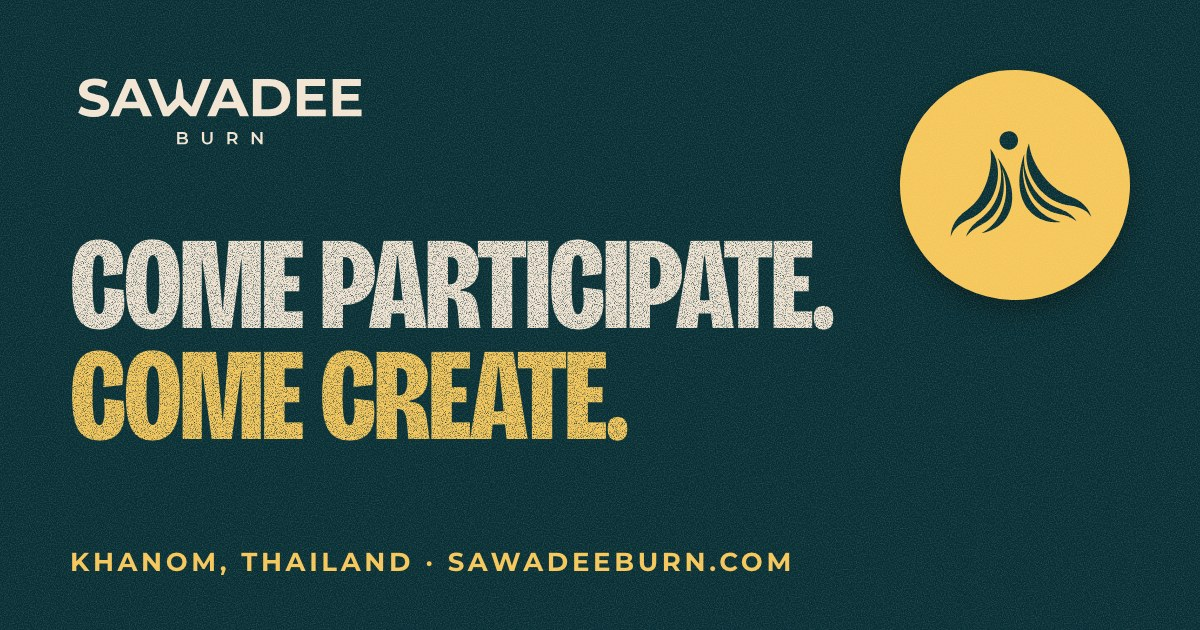
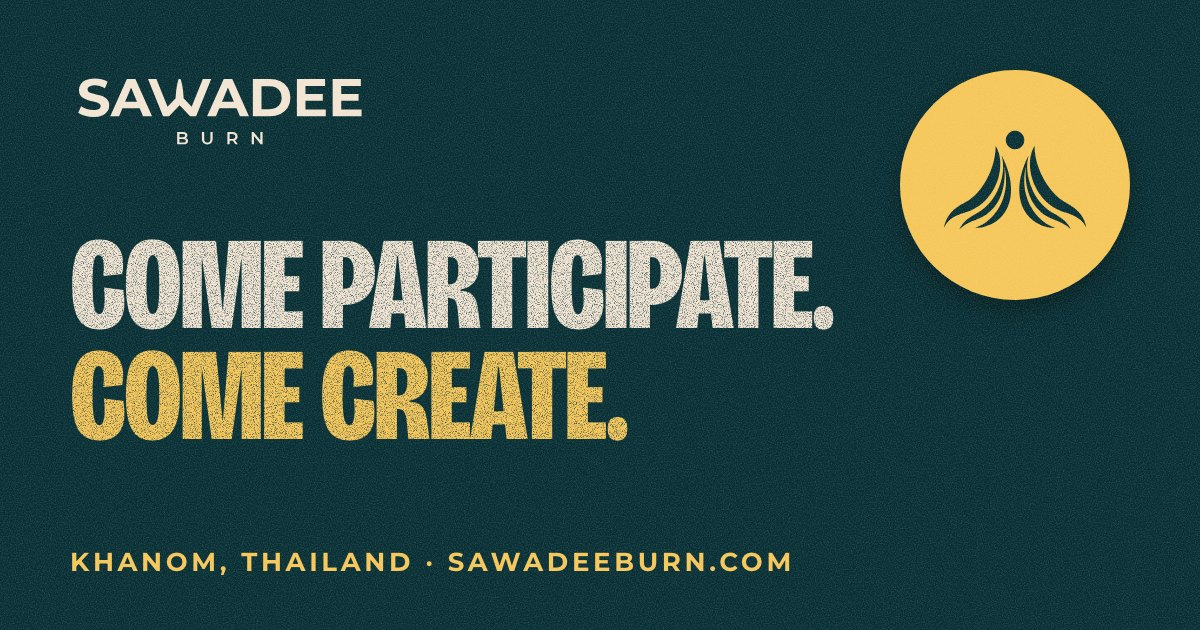
Artem's notes: title 'We build it together.', symbol stamp upright so the palms sit level, link preview image with the upright symbol

Changed region(s): [[0.7708, 0.2111, 0.925, 0.3921]]

diff --git a/public/index.html b/public/index.html
@@ -8,7 +8,7 @@
 <meta name="description" content="A community-created, non-profit burn by the sea. 2-7 March 2027, Khanom, Thailand. Come participate. Come create.">
 <meta property="og:title" content="SaWadee Burn · 2-7 March 2027 · Khanom, Thailand">
 <meta property="og:description" content="A community-created, non-profit burn by the sea. Come participate. Come create.">
-<meta property="og:image" content="https://sawadee-burn-site.pages.dev/assets/img/share.jpg?v=v3">
+<meta property="og:image" content="https://sawadee-burn-site.pages.dev/assets/img/share.jpg?v=v3b">
 <meta property="og:image:width" content="1200">
 <meta property="og:image:height" content="630">
 <meta property="og:image:alt" content="SaWadee Burn: Come participate. Come create. Khanom, Thailand.">
@@ -21,7 +21,7 @@
 <link rel="icon" href="favicon.svg" type="image/svg+xml">
 <link rel="preload" href="assets/fonts/bricolage.woff2" as="font" type="font/woff2" crossorigin>
 <link rel="preload" href="assets/fonts/montserrat.woff2" as="font" type="font/woff2" crossorigin>
-<link rel="stylesheet" href="assets/site.css?v=1795768540">
+<link rel="stylesheet" href="assets/site.css?v=1795769750">
 <script>(function(){try{var t=localStorage.getItem('sb-theme');if(t)document.documentElement.dataset.theme=t}catch(e){}document.documentElement.classList.add('js')})()</script>
 </head>
 <body>
@@ -78,7 +78,7 @@
 <!-- ============ WHAT A BURN IS ============ -->
 <section class="burn f-paper" id="burn" aria-labelledby="h-burn">
   <div class="wrap">
-    <h2 class="big" id="h-burn"><span class="fit" data-w=".5">Built by</span><span class="fit ink-tang" data-w=".86">everyone who comes.</span></h2>
+    <h2 class="big" id="h-burn"><span class="fit" data-w=".7">We build it</span><span class="fit ink-tang" data-w=".62">together.</span></h2>
     <div class="burn-grid">
       <div class="player">
         <video id="teaser" playsinline muted loop preload="none" poster="assets/video/film-poster.webp?v=naf2" width="720" height="900" aria-label="33 second type film: No lineup. No headliners. No VIP. Not a festival. We build it together, we make music, we play, we share, then we burn it together and leave no trace.">
@@ -90,7 +90,7 @@
         </div>
       </div>
       <div class="burn-copy">
-      <p class="lede">Six days of art, camps and music by the sea. Everyone who comes takes part.</p>
+      <p class="lede">Six days of art, camps and music by the sea, made by the community.</p>
       <ul class="claims">
         <li><b class="big">You make the program.</b><span>Art, camps and music come from the participants.</span></li>
         <li><b class="big">We share.</b><span>Nobody sells anything here, and there are no sponsors.</span></li>
@@ -264,6 +264,6 @@
 
 <script src="assets/motion/assets.js" defer></script>
 <script src="assets/motion/sawadee-motion.js" defer></script>
-<script src="assets/site.js?v=1795768540" defer></script>
+<script src="assets/site.js?v=1795769750" defer></script>
 </body>
 </html>

diff --git a/src/index.html b/src/index.html
@@ -8,7 +8,7 @@
 <meta name="description" content="A community-created, non-profit burn by the sea. 2-7 March 2027, Khanom, Thailand. Come participate. Come create.">
 <meta property="og:title" content="SaWadee Burn · 2-7 March 2027 · Khanom, Thailand">
 <meta property="og:description" content="A community-created, non-profit burn by the sea. Come participate. Come create.">
-<meta property="og:image" content="{{SITE}}/assets/img/share.jpg?v=v3">
+<meta property="og:image" content="{{SITE}}/assets/img/share.jpg?v=v3b">
 <meta property="og:image:width" content="1200">
 <meta property="og:image:height" content="630">
 <meta property="og:image:alt" content="SaWadee Burn: Come participate. Come create. Khanom, Thailand.">
@@ -78,7 +78,7 @@
 <!-- ============ WHAT A BURN IS ============ -->
 <section class="burn f-paper" id="burn" aria-labelledby="h-burn">
   <div class="wrap">
-    <h2 class="big" id="h-burn"><span class="fit" data-w=".5">Built by</span><span class="fit ink-tang" data-w=".86">everyone who comes.</span></h2>
+    <h2 class="big" id="h-burn"><span class="fit" data-w=".7">We build it</span><span class="fit ink-tang" data-w=".62">together.</span></h2>
     <div class="burn-grid">
       <div class="player">
         <video id="teaser" playsinline muted loop preload="none" poster="assets/video/film-poster.webp?v=naf2" width="720" height="900" aria-label="33 second type film: No lineup. No headliners. No VIP. Not a festival. We build it together, we make music, we play, we share, then we burn it together and leave no trace.">
@@ -90,7 +90,7 @@
         </div>
       </div>
       <div class="burn-copy">
-      <p class="lede">Six days of art, camps and music by the sea. Everyone who comes takes part.</p>
+      <p class="lede">Six days of art, camps and music by the sea, made by the community.</p>
       <ul class="claims">
         <li><b class="big">You make the program.</b><span>Art, camps and music come from the participants.</span></li>
         <li><b class="big">We share.</b><span>Nobody sells anything here, and there are no sponsors.</span></li>

diff --git a/public/crews/index.html b/public/crews/index.html
@@ -8,7 +8,7 @@
 <meta name="description" content="Start a crew, get your own link, light lamps on the board. Points don't matter. A community-created, non-profit burn by the sea. 2-7 March 2027, Khanom, Thailand. Come participate. Come create.">
 <meta property="og:title" content="SaWadee Burn · 2-7 March 2027 · Khanom, Thailand">
 <meta property="og:description" content="A community-created, non-profit burn by the sea. Come participate. Come create.">
-<meta property="og:image" content="https://sawadee-burn-site.pages.dev/assets/img/share.jpg?v=v3">
+<meta property="og:image" content="https://sawadee-burn-site.pages.dev/assets/img/share.jpg?v=v3b">
 <meta property="og:image:width" content="1200">
 <meta property="og:image:height" content="630">
 <meta property="og:image:alt" content="SaWadee Burn: Come participate. Come create. Khanom, Thailand.">
@@ -21,7 +21,7 @@
 <link rel="icon" href="/favicon.svg" type="image/svg+xml">
 <link rel="preload" href="/assets/fonts/bricolage.woff2" as="font" type="font/woff2" crossorigin>
 <link rel="preload" href="/assets/fonts/montserrat.woff2" as="font" type="font/woff2" crossorigin>
-<link rel="stylesheet" href="/assets/site.css?v=1795768540">
+<link rel="stylesheet" href="/assets/site.css?v=1795769750">
 <script>(function(){try{var t=localStorage.getItem('sb-theme');if(t)document.documentElement.dataset.theme=t}catch(e){}document.documentElement.classList.add('js')})()</script>
 </head>
 <body>
@@ -113,7 +113,7 @@
 
 <script src="/assets/motion/assets.js" defer></script>
 <script src="/assets/motion/sawadee-motion.js" defer></script>
-<script src="/assets/site.js?v=1795768540" defer></script>
-<script src="/assets/crews.js?v=1795768540" defer></script>
+<script src="/assets/site.js?v=1795769750" defer></script>
+<script src="/assets/crews.js?v=1795769750" defer></script>
 </body>
 </html>

diff --git a/public/404.html b/public/404.html
@@ -8,7 +8,7 @@
 <meta name="description" content="A community-created, non-profit burn by the sea. 2-7 March 2027, Khanom, Thailand. Come participate. Come create.">
 <meta property="og:title" content="SaWadee Burn · 2-7 March 2027 · Khanom, Thailand">
 <meta property="og:description" content="A community-created, non-profit burn by the sea. Come participate. Come create.">
-<meta property="og:image" content="https://sawadee-burn-site.pages.dev/assets/img/share.jpg?v=v3">
+<meta property="og:image" content="https://sawadee-burn-site.pages.dev/assets/img/share.jpg?v=v3b">
 <meta property="og:image:width" content="1200">
 <meta property="og:image:height" content="630">
 <meta property="og:image:alt" content="SaWadee Burn: Come participate. Come create. Khanom, Thailand.">
@@ -21,7 +21,7 @@
 <link rel="icon" href="/favicon.svg" type="image/svg+xml">
 <link rel="preload" href="/assets/fonts/bricolage.woff2" as="font" type="font/woff2" crossorigin>
 <link rel="preload" href="/assets/fonts/montserrat.woff2" as="font" type="font/woff2" crossorigin>
-<link rel="stylesheet" href="/assets/site.css?v=1795768540">
+<link rel="stylesheet" href="/assets/site.css?v=1795769750">
 <script>(function(){try{var t=localStorage.getItem('sb-theme');if(t)document.documentElement.dataset.theme=t}catch(e){}document.documentElement.classList.add('js')})()</script>
 </head>
 <body>

diff --git a/public/assets/site.css b/public/assets/site.css
@@ -506,10 +506,13 @@ main>.community{padding-bottom:0;overflow:hidden}
 /* Artem's symbol: a round stamp in the hero and the social avatar. Never in one lockup with the W name. */
 .stk-sym{padding:0}
 .stk-sym i{display:block;width:64%;aspect-ratio:252/177;margin-top:-6%;background:var(--sea);-webkit-mask:url(img/artem-mark.svg) center/contain no-repeat;mask:url(img/artem-mark.svg) center/contain no-repeat}
+/* Artem, 27 Nov 2026: the symbol stands upright, so both palms sit level. No tilt, also on hover. */
+.stk.stk-sym{--r:0deg}
+.print:hover .stk-sym,.door:hover .stk-sym,.community:hover .stk-sym{transform:scale(1.04)}
 .find-av{display:flex;align-items:center;gap:1rem;margin-block:1.4rem 1.6rem;font-weight:700}
 .find-av img{width:64px;height:64px;border-radius:50%;flex:none}
 
-/* v3.1 (Artem's notes): the film is back beside "Built by everyone who comes"; the page end gets room to breathe */
+/* v3.1 (Artem's notes): the film is back beside the burn title; the page end gets room to breathe */
 .burn .burn-grid{grid-template-columns:minmax(0,5fr) minmax(0,7fr);align-items:center}
 .burn .player{justify-self:start}
 .burn .burn-copy .claims{margin-top:clamp(24px,3vw,40px)}

diff --git a/src/site.css b/src/site.css
@@ -506,10 +506,13 @@ main>.community{padding-bottom:0;overflow:hidden}
 /* Artem's symbol: a round stamp in the hero and the social avatar. Never in one lockup with the W name. */
 .stk-sym{padding:0}
 .stk-sym i{display:block;width:64%;aspect-ratio:252/177;margin-top:-6%;background:var(--sea);-webkit-mask:url(img/artem-mark.svg) center/contain no-repeat;mask:url(img/artem-mark.svg) center/contain no-repeat}
+/* Artem, 27 Nov 2026: the symbol stands upright, so both palms sit level. No tilt, also on hover. */
+.stk.stk-sym{--r:0deg}
+.print:hover .stk-sym,.door:hover .stk-sym,.community:hover .stk-sym{transform:scale(1.04)}
 .find-av{display:flex;align-items:center;gap:1rem;margin-block:1.4rem 1.6rem;font-weight:700}
 .find-av img{width:64px;height:64px;border-radius:50%;flex:none}
 
-/* v3.1 (Artem's notes): the film is back beside "Built by everyone who comes"; the page end gets room to breathe */
+/* v3.1 (Artem's notes): the film is back beside the burn title; the page end gets room to breathe */
 .burn .burn-grid{grid-template-columns:minmax(0,5fr) minmax(0,7fr);align-items:center}
 .burn .player{justify-self:start}
 .burn .burn-copy .claims{margin-top:clamp(24px,3vw,40px)}

diff --git a/public/brand/index.html b/public/brand/index.html
@@ -13,8 +13,8 @@
 <meta name="theme-color" content="#041B1F" media="(prefers-color-scheme: dark)">
 <link rel="icon" href="/favicon.svg" type="image/svg+xml">
 <link rel="preload" href="/assets/fonts/bricolage.woff2" as="font" type="font/woff2" crossorigin>
-<link rel="stylesheet" href="/assets/site.css?v=1795768540">
-<link rel="stylesheet" href="/assets/brand.css?v=1795768540">
+<link rel="stylesheet" href="/assets/site.css?v=1795769750">
+<link rel="stylesheet" href="/assets/brand.css?v=1795769750">
 <script>(function(){try{var t=localStorage.getItem('sb-theme');if(t)document.documentElement.dataset.theme=t}catch(e){}document.documentElement.classList.add('js')})()</script>
 </head>
 <body class="brand-page">
@@ -256,7 +256,7 @@
   </div>
 </footer>
 
-<script src="/assets/site.js?v=1795768540" defer></script>
-<script src="/assets/brand.js?v=1795768540" defer></script>
+<script src="/assets/site.js?v=1795769750" defer></script>
+<script src="/assets/brand.js?v=1795769750" defer></script>
 </body>
 </html>
